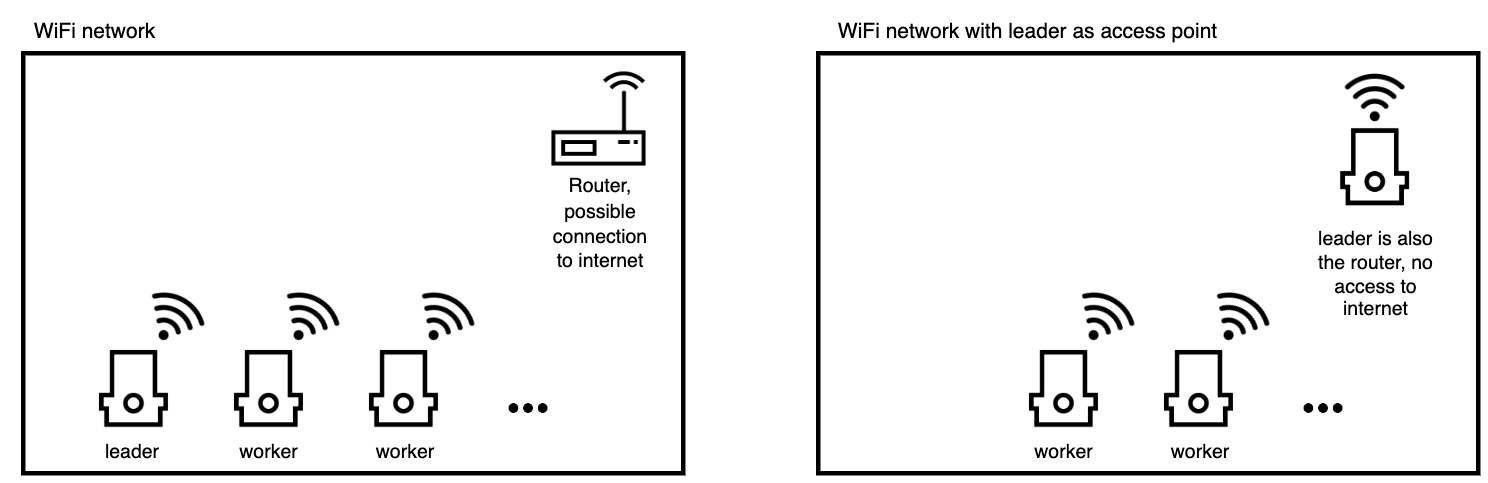
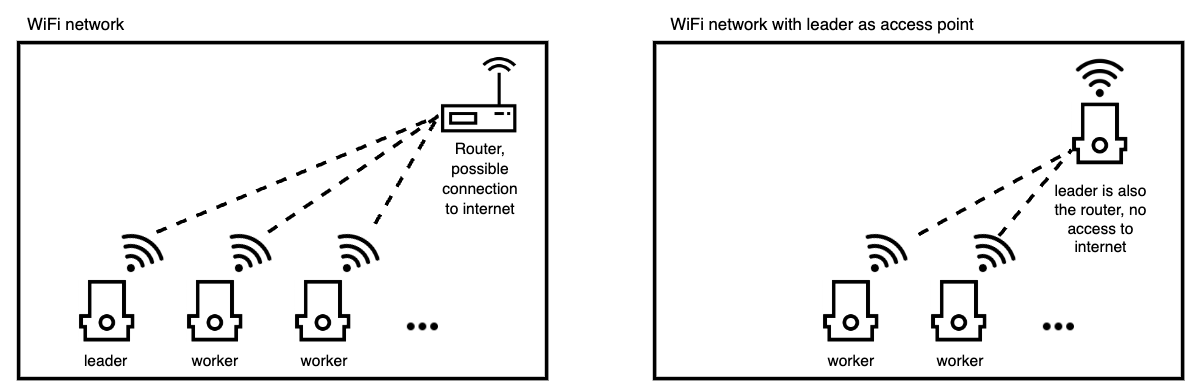
new lap

diff --git a/user-guide/30-Advanced/06-local-access-point.md b/user-guide/30-Advanced/06-local-access-point.md
@@ -11,18 +11,17 @@ import ButtonDownloadLocalAccessPointFile from '@site/src/components/ButtonDownl
 This feature is currently experimental
 :::
 
-For some use cases, you may want to create a local WiFi network just for your Pioreactors (this is called a local access point). Why might you want to do this?
+For some use cases, you may want to create a local WiFi network just for your Pioreactors (this is called a local access point, or a hotspot). Why might you want to do this?
 
  - If you want to get started right away, without dealing with WiFi credentials.
  - If your usual WiFi network is restrictive (doesn't allow Raspberry Pis, or requires IT support to host them).
  - If you want to take the Pioreactor, or cluster of Pioreactors, out into the field where there is no network.
 
-The Pioreactor comes with the ability to create its own local access point, which other Pioreactors can connect to. This new network is not connected to any other broader network (including the internet). See image below:
+The Pioreactor comes with the ability to create its own local access point, which other Pioreactors can connect to. See image below:
 
 ![Using the leader Pioreactor to create a local access point](/img/user-guide/local_access_point.png)
 
 ## Starting a local access point
-
 
 
 The leader Pioreactor has the necessary software to create the local access point. To start the access point:
@@ -45,29 +44,29 @@ After plugging in the Pioreactor, the local access point will start and you shou
 
 <img src="/img/user-guide/pioreactor_ap.png" width="325" />
 
-Once connected, the usual urls should work: http://pioreactor.local will bring up the Pioreactor interface (having trouble? Try `http://<your_leaders_hostname>.local`. Still not working? Try `http://10.3.141.1`)
+Once connected, the usual urls should work: http://pioreactor.local will bring up the Pioreactor interface (having trouble? Try `http://<your_leaders_hostname>.local`. Still not working? Try `http://10.42.0.1`)
 
 ### Connecting workers to your local access point
 
-Worker Pioreactors will need to be reconfigured to connect to this new access point:
-
-1. During worker set up in the Raspberry Pi Imager, using the credentials ssid: `pioreactor` and password `raspberry` in the wireless LAN section.
-1. Or, by editing the `/etc/wpa_supplicant/wpa_supplicant.conf` with the correct credentials.
+Worker Pioreactors will need to be reconfigured to connect to this new access point. During worker set up in the Raspberry Pi Imager, using the ssid credentials: `pioreactor` and password `raspberry` in the wireless LAN section.
 
 :::note
-Since this network is not connected to the internet, you won't be able to upgrade any software on the Pioreactors.
+Since this network may not be connected to the internet, so you won't be able to upgrade any software on the Pioreactors.
 :::
 
- ## Turning off a local access point
+## Adding internet access to your local access point
 
-After SSH-ing into your Pioreactor, simply delete the `local_access_point` file in the `/boot/` directory.
+If you are hosting the local access point on a Raspberry Pi that has an ethernet port (B models), you can plug this into a router that has access to the internet to provide internet to your entire cluster.
 
 
- ## Changing SSID name or password for your local access point
+![Using the leader Pioreactor to create a local access point, and the leader is connected to a router](/img/user-guide/lap_with_internet.png)
+
+
+## Turning off a local access point
+
+After SSH-ing into your Pioreactor, simply delete the `local_access_point` file in the `/boot/firmware/` directory, and reboot.
+
+
+## Changing SSID name or password for your local access point
 
 In the `config.ini`, the SSID and password are editable under the section `local_access_point`. This requires a power-cycle to take effect.
-
-
-## Hidden site: `raspap.pioreactor.local`
-
-The software we use, RaspAP, exposes it's own website to view statistics and configuration for the local access point. You can view this website at [http://raspap.pioreactor.local](http://raspap.pioreactor.local). Username: `admin`, password: `secret`
